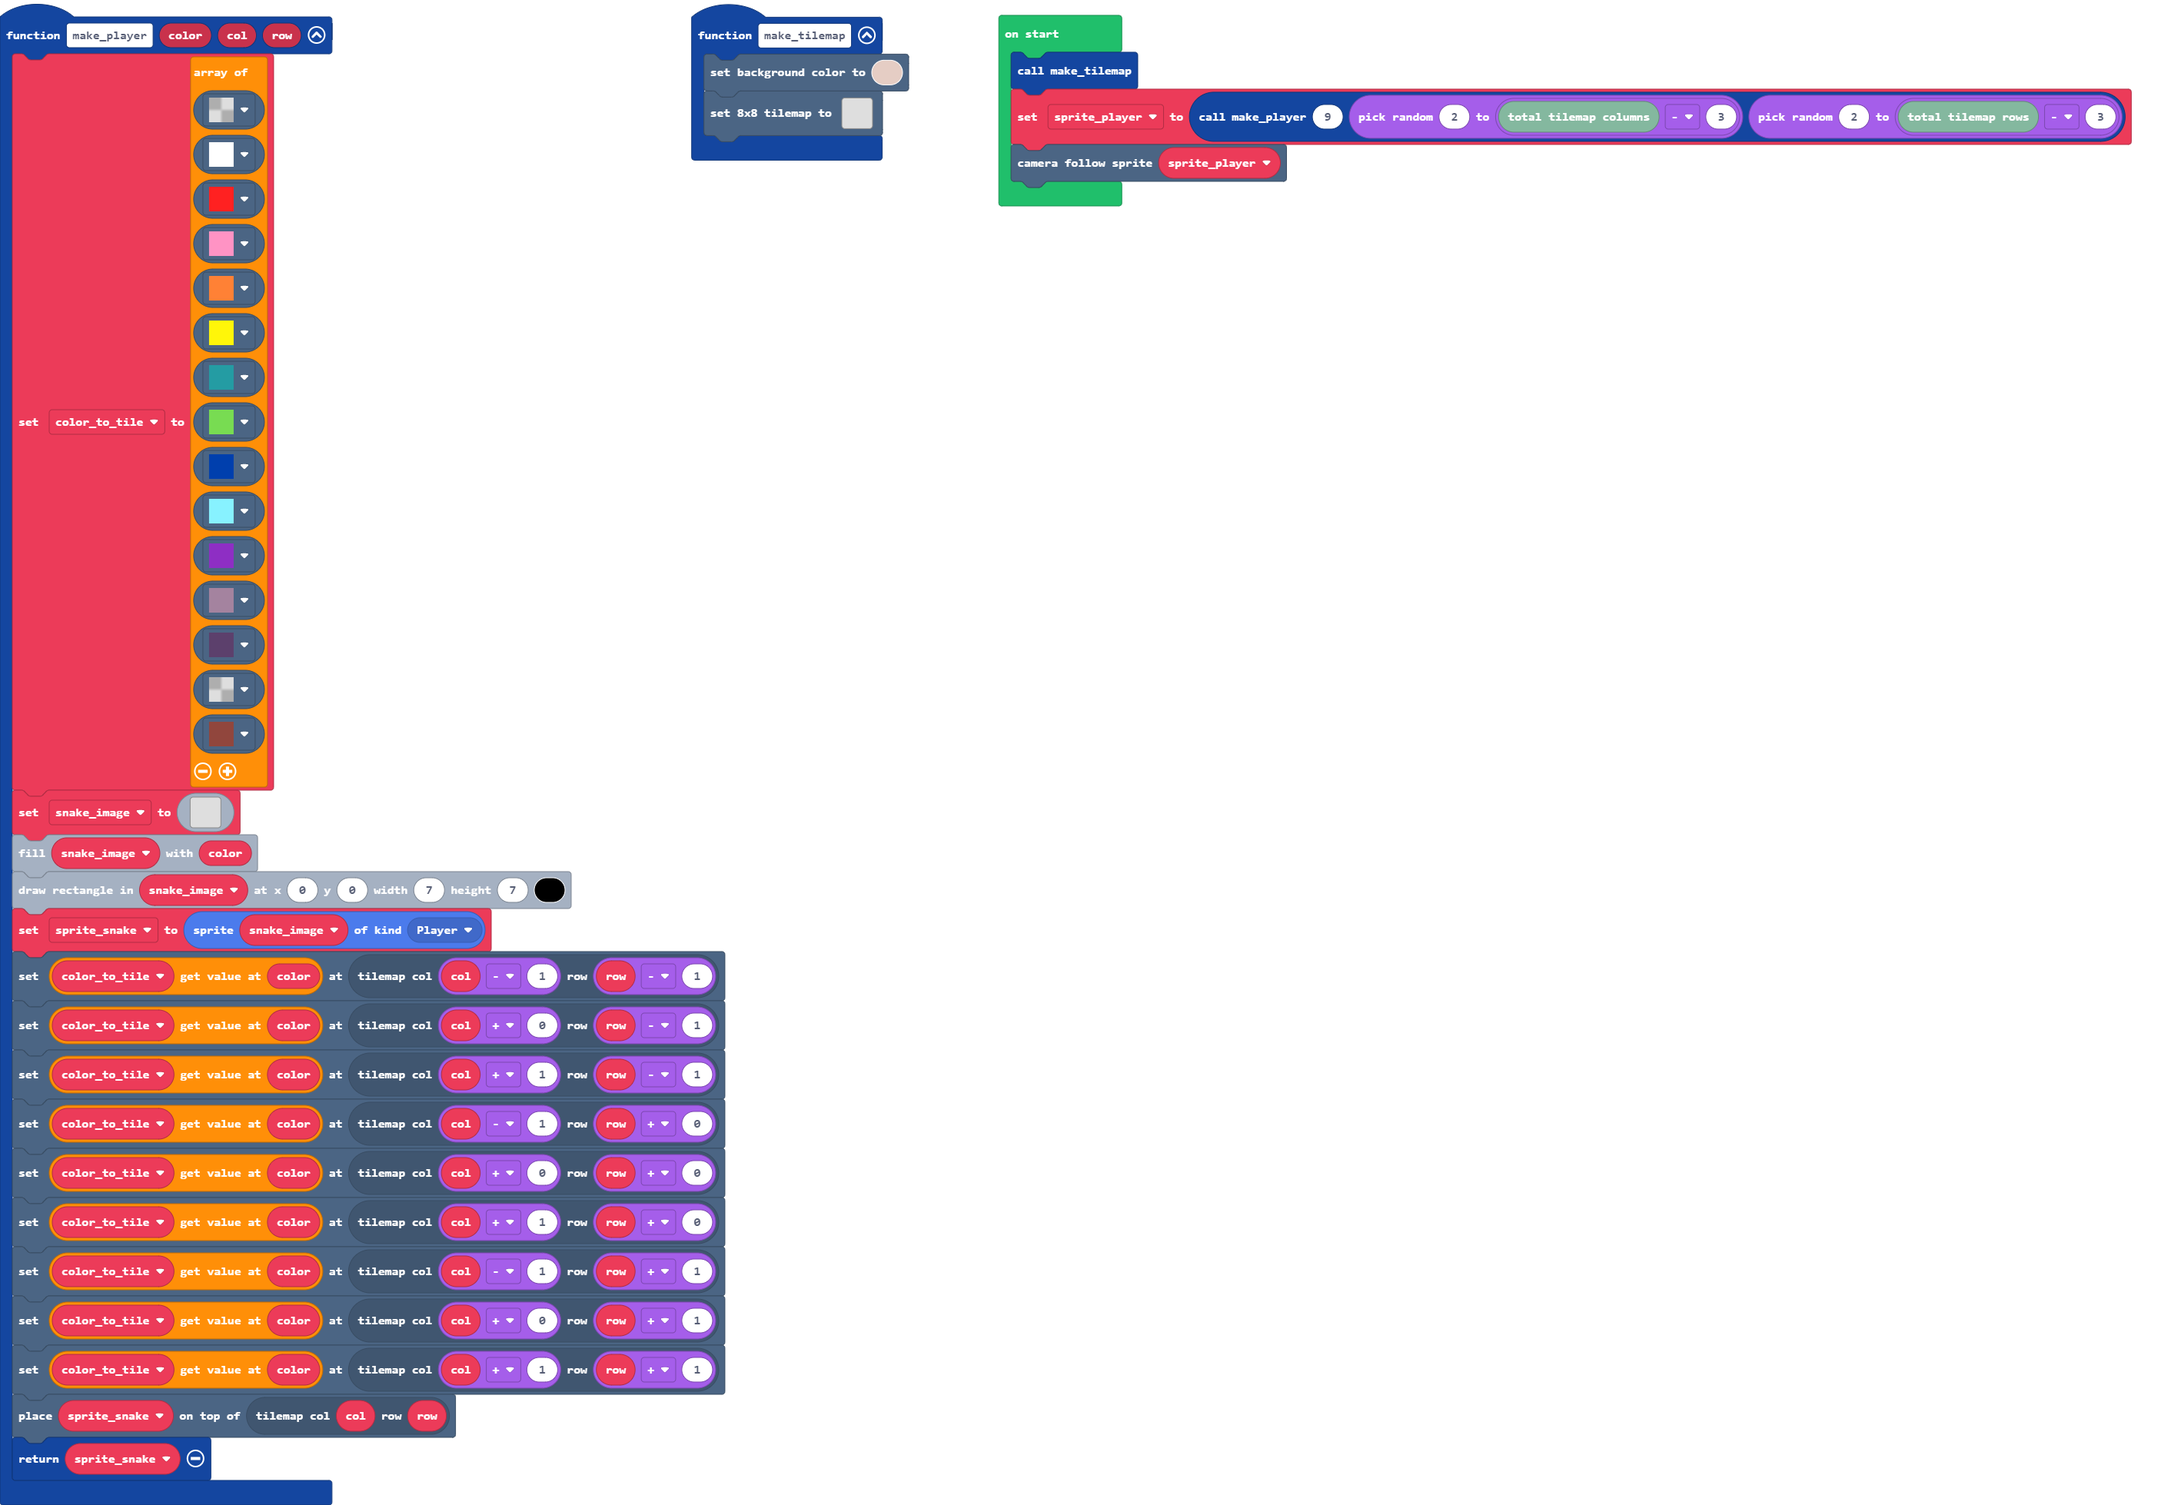
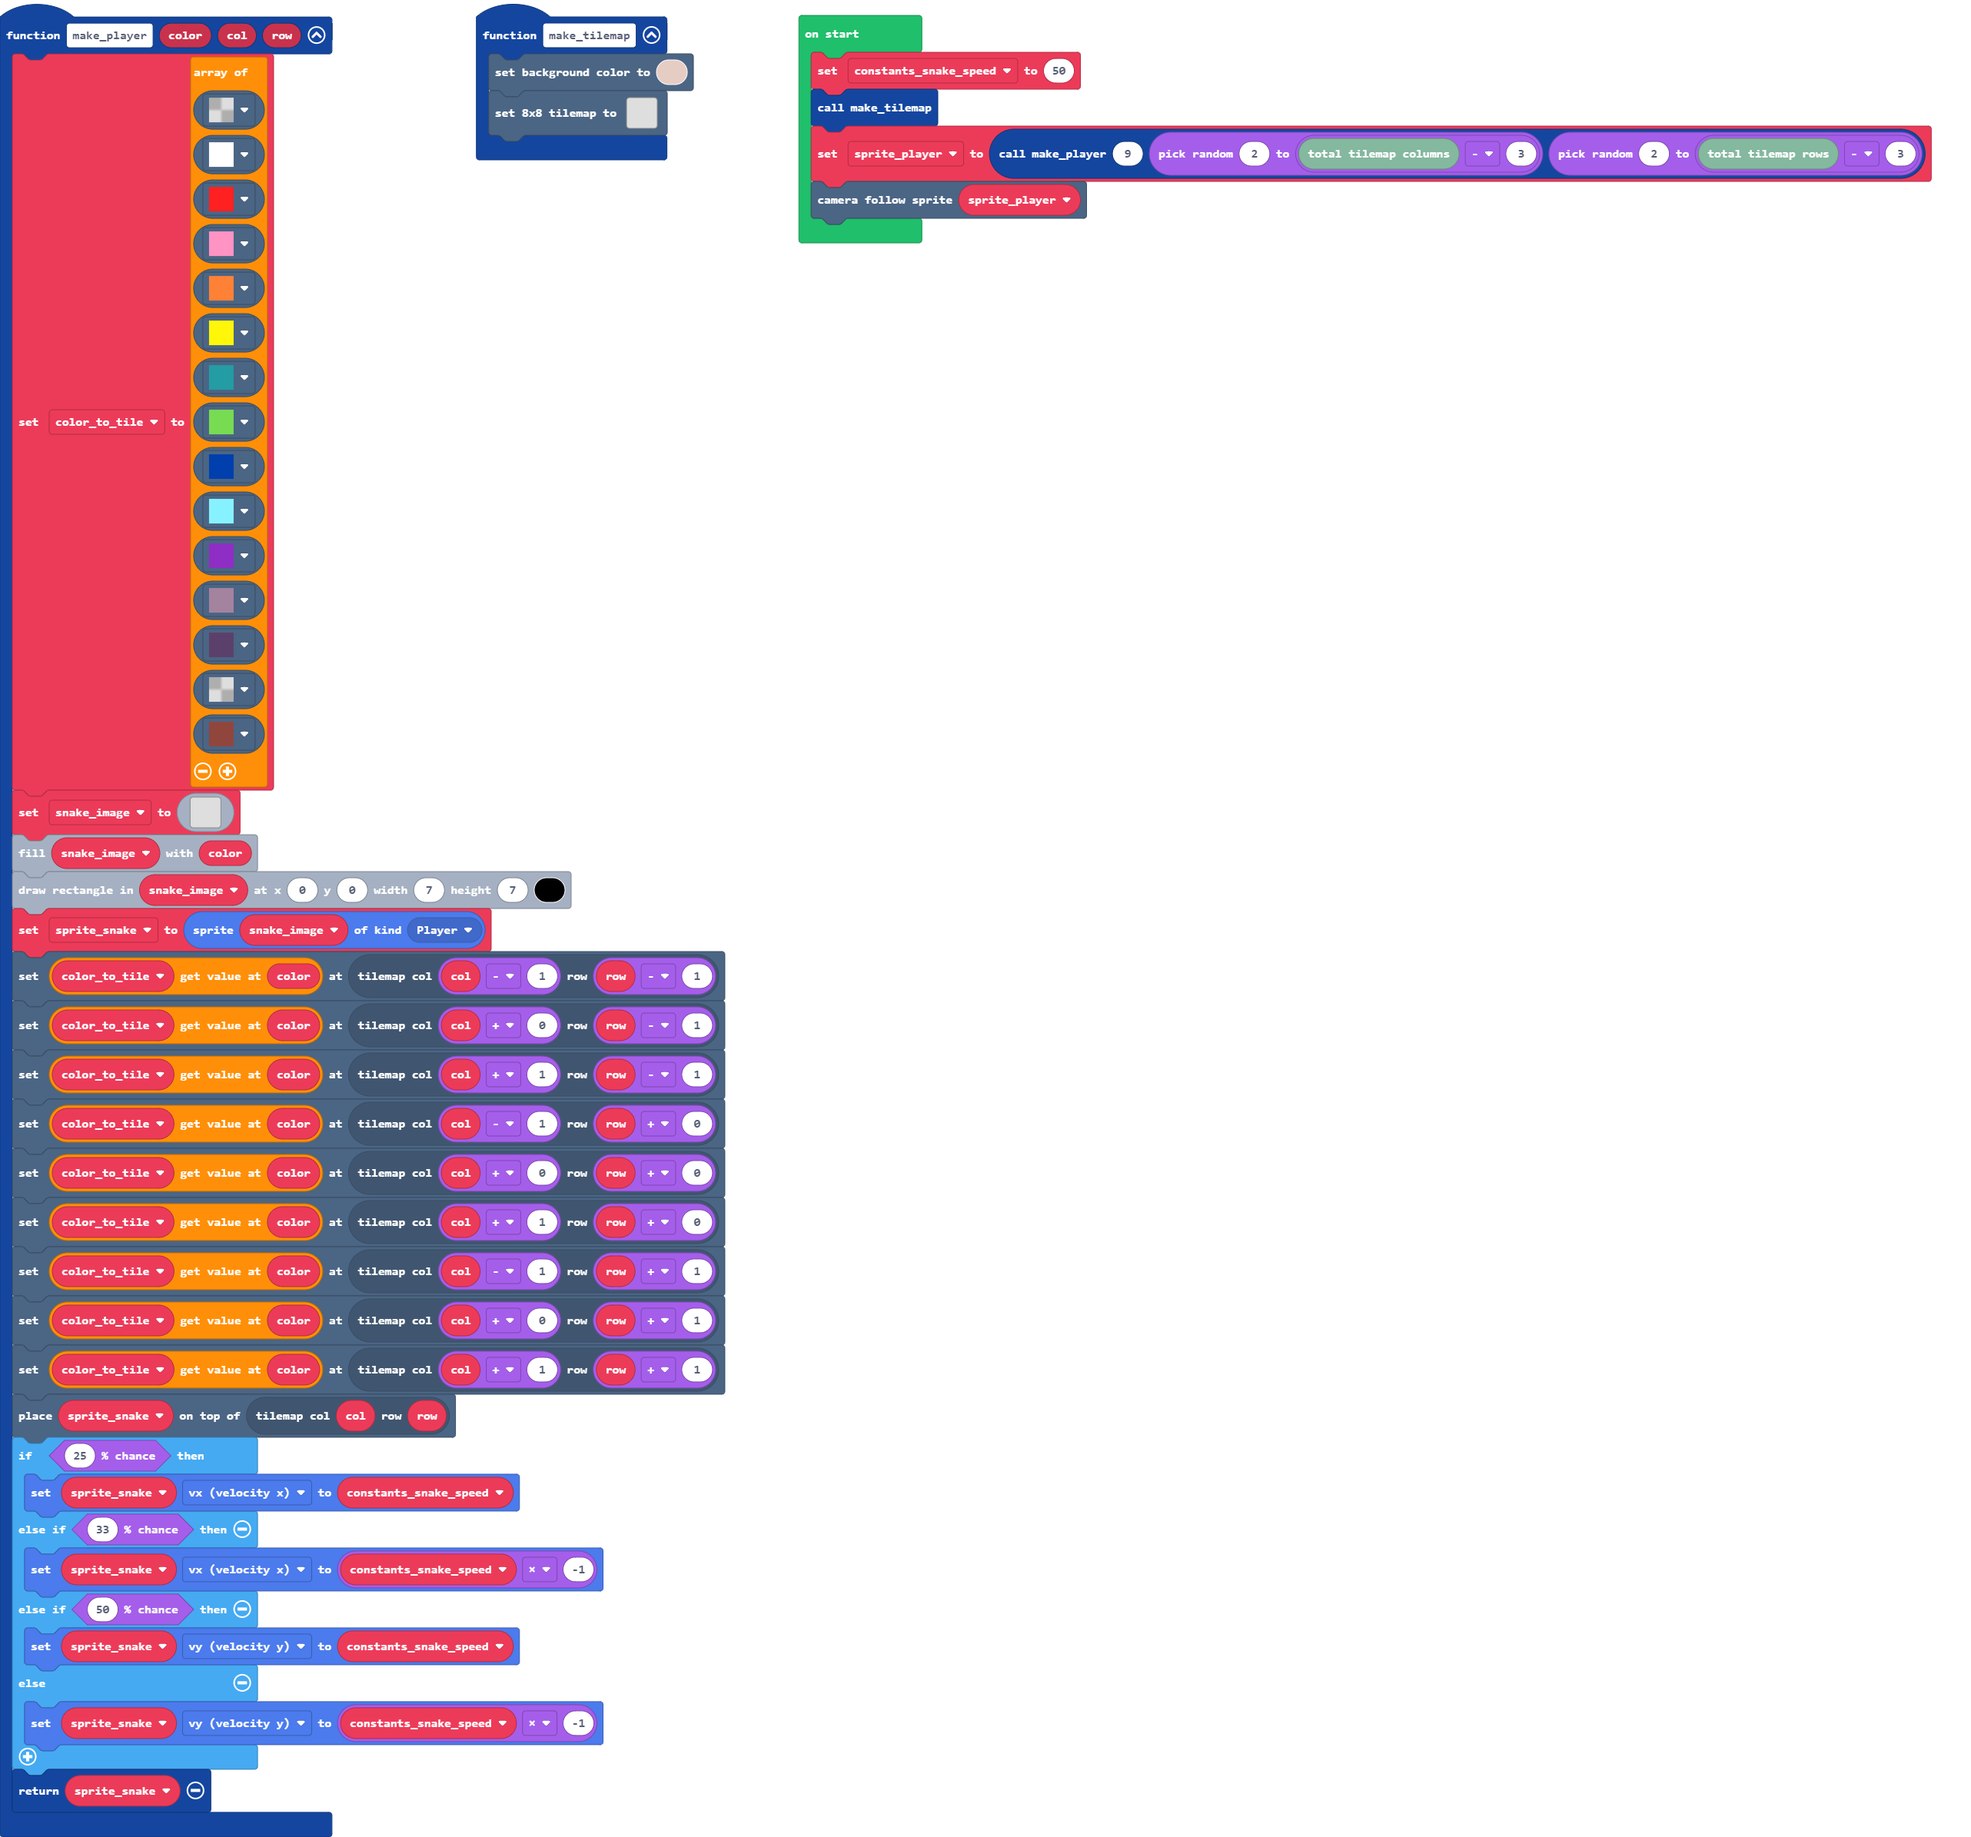
Send snake off in random direction

Changed region(s): [[0.0, 0.0, 0.3744, 1.0], [0.2184, 0.0, 0.9984, 0.1558]]

diff --git a/main.ts b/main.ts
@@ -30,6 +30,15 @@ function make_player (color: number, col: number, row: number) {
     tiles.setTileAt(tiles.getTileLocation(col + 0, row + 1), color_to_tile[color])
     tiles.setTileAt(tiles.getTileLocation(col + 1, row + 1), color_to_tile[color])
     tiles.placeOnTile(sprite_snake, tiles.getTileLocation(col, row))
+    if (Math.percentChance(25)) {
+        sprite_snake.vx = constants_snake_speed
+    } else if (Math.percentChance(33)) {
+        sprite_snake.vx = constants_snake_speed * -1
+    } else if (Math.percentChance(50)) {
+        sprite_snake.vy = constants_snake_speed
+    } else {
+        sprite_snake.vy = constants_snake_speed * -1
+    }
     return sprite_snake
 }
 function make_tilemap () {
@@ -39,6 +48,8 @@ function make_tilemap () {
 let sprite_snake: Sprite = null
 let snake_image: Image = null
 let color_to_tile: Image[] = []
+let constants_snake_speed = 0
+constants_snake_speed = 50
 make_tilemap()
 let sprite_player = make_player(9, randint(2, tiles.tilemapColumns() - 3), randint(2, tiles.tilemapRows() - 3))
 scene.cameraFollowSprite(sprite_player)
